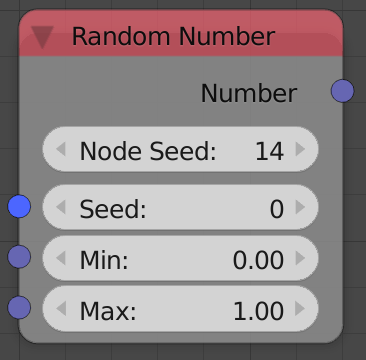
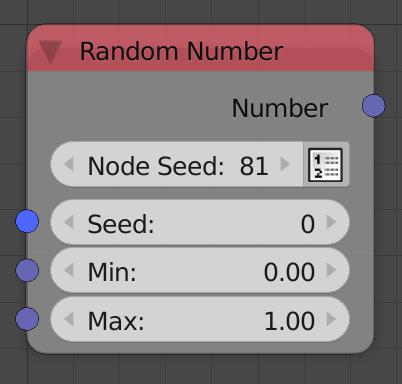
Updated Vectors Category

diff --git a/docs/user_guide/nodes/vector/vector_list.rst b/docs/user_guide/nodes/vector/vector_list.rst
@@ -3,7 +3,8 @@ Vector List
 
 Description
 -----------
-This node is used to create an arbitrary list of vectors. A new vector can be added with the *New Input* button. A new vector can also be added by plugging it into the transperant socket.
+
+This node is used to create an arbitrary list of vectors. A new vector can be added with the *New Input* button. A new vector can also be added by plugging it into the transparent socket.
 
 .. image:: images/vector_list_node.png
    :width: 160pt
@@ -20,15 +21,16 @@ Outputs
 - **Vector list** - A list that contain all the input vectors.
 
 Advanced Node Settings
------------------------
+----------------------
 
 - **Change type** - Change the type of the vector list to another list type.
 - **Hide Inputs** - Hide all the inputs in the node.
-- **Remove Inputs** - Remove all the inputs.
+- **Remove Unlinked Inputs** - Removes all the inputs that are not connected to another node.
 
 Caution
 -------
-A warning will pop up when you use the *Remove All* button in the node, while if you used the the *Remove All* button in the *Advanced Node Settings* the inputs will be removed without a warning.
+
+A warning will pop up when you use the *Remove Unlinked Inputs* button in the node, while if you used the the *Remove Unlinked Inputs* button in the *Advanced Node Settings* the inputs will be removed without a warning.
 
 Examples of Usage
 -----------------

diff --git a/docs/user_guide/nodes/vector/offset_vector.rst b/docs/user_guide/nodes/vector/offset_vector.rst
@@ -1,0 +1,38 @@
+Offset Vector
+=============
+
+Description
+-----------
+
+This node offset a vector based on an input offset vector with an input falloff as a factor.
+
+.. image:: images/offset_vector_node.png
+   :width: 160pt
+
+Options
+-------
+
+- **Start/End** - Start will offset the vectors based on the offset vector with the falloff as a factor. End will offset the vectors based on the offset vector with the inverse falloff as a factor, in other words, all points will be transformed based on the offset vector and then points will be transformed back to their initial position based on the offset vector with the falloff as a factor.
+- **Use Vector List** - It is the button you see beside the *Start/End* options, if is enabled, the node will expect a vector list to offset and the output will be the offset vector list.
+
+Inputs
+------
+
+- **Vector(s)** - A vector(s) to offset.
+- **Falloff** - A falloff to use as a factor.
+- **Offset** - The offset vector.
+
+Outputs
+-------
+
+- **Vector** - The new coordinates of the point after offset.
+
+Advanced Node Settings
+----------------------
+
+- N/A
+
+Examples of Usage
+-----------------
+
+.. image:: gifs/offset_vector_node_example.gif

diff --git a/docs/user_guide/nodes/vector/index.rst b/docs/user_guide/nodes/vector/index.rst
@@ -1,25 +1,27 @@
 Vector
 ======
 
+Vector category include nodes that process and generate vectors.
+
 .. toctree::
    :titlesonly:
 
     Separate <separate_vector>
     Combine <combine_vector>
     From Value <vector_from_value>
-    Distance <vector_distance>
     List <vector_list>
     Random Vector <random_vector>
     Wiggle <vector_wiggle>
     Mix Vectors <mix_vectors>
-    Vector Math <vector_math>
+    Distance <vector_distance>
+    Distance To Line <../geometry/project_point_on_line>
+    Distance To Plane <../geometry/project_point_on_plane>
+    Vector Angle <vector_angle>
+    Vector Length <vector_length>
 	Dot Product <dot_product>
-	Vector Angle <vector_angle>
-	Vector Length <vector_length>
+    Vector Math <vector_math>
 	Vector List Math <vector_list_math>
     Transform Vector <transform_vector>
-    Transform Vector List <transform_vector_list>
-    Project Point on Line <project_point_on_line>
-    Project Point on Plane <project_point_on_plane>
+    Offset vector <offset_vector>
 
 .. image:: images/vector_overview.png

diff --git a/docs/user_guide/nodes/number/random_number.rst b/docs/user_guide/nodes/number/random_number.rst
@@ -9,12 +9,18 @@ This node generates a random float between a minimum and a maximum value.
 .. image:: images/random_number_node.png
    :width: 160pt
 
+Options
+-------
+
+- **Create List** - It is the button you see beside the *Node Seed*, if is enabled, the output will be a list of random floats.
+
 Inputs
 ------
 
 - **Seed** - Seed for the random generator, Where different seed generate different random number.
 - **Min** - A float value that the generated number won't deceed.
 - **Max** - A float value that the generated number won't exceed.
+- **Count** - The number of random floats to generate. (Only available if *Create List* is enabled)
 
 Outputs
 -------

diff --git a/docs/user_guide/nodes/vector/vector_angle.rst b/docs/user_guide/nodes/vector/vector_angle.rst
@@ -3,8 +3,8 @@ Vector Angle
 
 Description
 -----------
-This node calculates the angle between 2 vectors.
-The main advantage of using this node over the Dot product operation is the ability to input a non normalized vector.
+
+This node calculates the angle between two vectors.
 
 .. image:: images/vector_angle_node.png
    :width: 160pt
@@ -18,7 +18,7 @@ Inputs
 Outputs
 -------
 
-- **Angle** - The Angle between the the 2 input vectors in radian.
+- **Angle** - The Angle between the the two input vectors in radian.
 - **Rotation Difference** - The difference between the quaternion forms of the 2 vectors in a form of a quaternion.
 
 Advanced Node Settings

diff --git a/docs/user_guide/nodes/vector/random_vector.rst b/docs/user_guide/nodes/vector/random_vector.rst
@@ -3,16 +3,23 @@ Random Vector
 
 Description
 -----------
+
 This node generates a random vector with a defined magnitude.
 
 .. image:: images/random_vector_node.png
    :width: 160pt
+
+Options
+-------
+
+- **Create List** - It is the button you see beside the *Node Seed*, if is enabled, the output will be a list of random vectors.
 
 Inputs
 ------
 
 - **Seed** - Seed for the random generator, where different seed generates different random vector.
 - **Scale** - The magnitude of the generated vector.
+- **Count** - The number of random vectors to generate. (Only available if *Create List* is enabled)
 
 Outputs
 -------

diff --git a/docs/user_guide/nodes/vector/vector_distance.rst b/docs/user_guide/nodes/vector/vector_distance.rst
@@ -3,7 +3,8 @@ Vector Distance
 
 Description
 -----------
-This node calculates the distance between 2 points defined by 2 input vectors.
+
+This node calculates the distance between two points.
 
 .. image:: images/vector_distance_node.png
    :width: 160pt
@@ -17,7 +18,7 @@ Inputs
 Outputs
 -------
 
-- **Distance** - The distance between the 2 input coordinates.
+- **Distance** - The distance between the two input coordinates.
 
 Advanced Node Settings
 ----------------------

diff --git a/docs/user_guide/nodes/vector/vector_wiggle.rst b/docs/user_guide/nodes/vector/vector_wiggle.rst
@@ -3,6 +3,7 @@ Vector Wiggle
 
 Description
 -----------
+
 This node generates a random vector by generating a 1D perlin noise in all of its components.
 It is just like a :doc:`Number Wiggle <../number/number_wiggle>` node in the vector's components.
 

diff --git a/docs/user_guide/nodes/vector/mix_vectors.rst b/docs/user_guide/nodes/vector/mix_vectors.rst
@@ -3,7 +3,8 @@ Mix Vectors
 
 Description
 -----------
-This node mixes between 2 vectors by a defined factor.
+
+This node mixes between 2 vectors based on a factor.
 
 .. image:: images/mix_vectors_node.png
    :width: 160pt

diff --git a/docs/user_guide/nodes/vector/vector_from_value.rst b/docs/user_guide/nodes/vector/vector_from_value.rst
@@ -3,6 +3,7 @@ Vector From Value
 
 Description
 -----------
+
 This node composes a vector with a uniform value in all of its components.
 
 .. image:: images/vector_from_value_node.png

diff --git a/docs/user_guide/nodes/vector/transform_vector.rst b/docs/user_guide/nodes/vector/transform_vector.rst
@@ -3,6 +3,7 @@ Transform Vector
 
 Description
 -----------
+
 This node transforms a point based on an input *Transformation Matrix*.
 
 .. image:: images/transform_vector_node.png

diff --git a/docs/user_guide/nodes/vector/separate_vector.rst b/docs/user_guide/nodes/vector/separate_vector.rst
@@ -3,6 +3,7 @@ Separate Vector
 
 Description
 -----------
+
 This node takes a 3D vector and returns its components.
 
 .. image:: images/separate_vector_node.png
